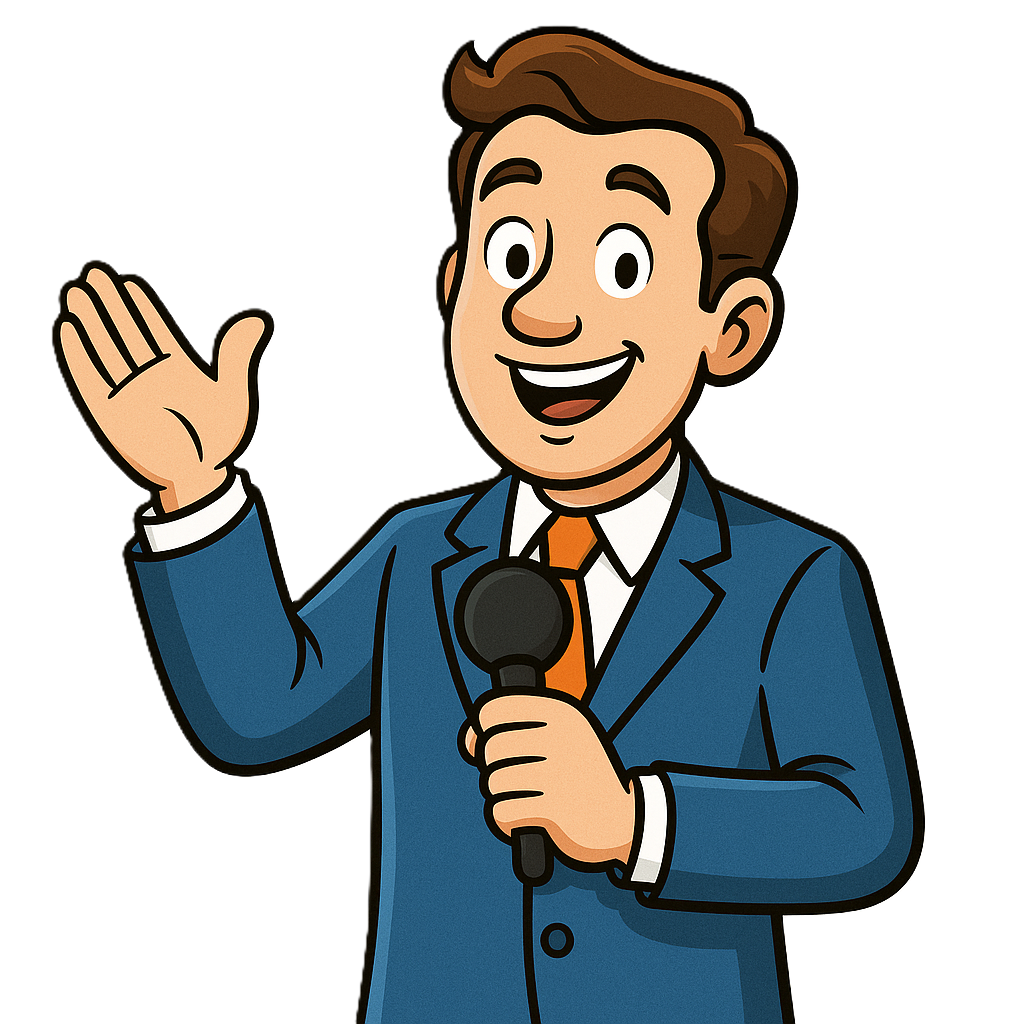
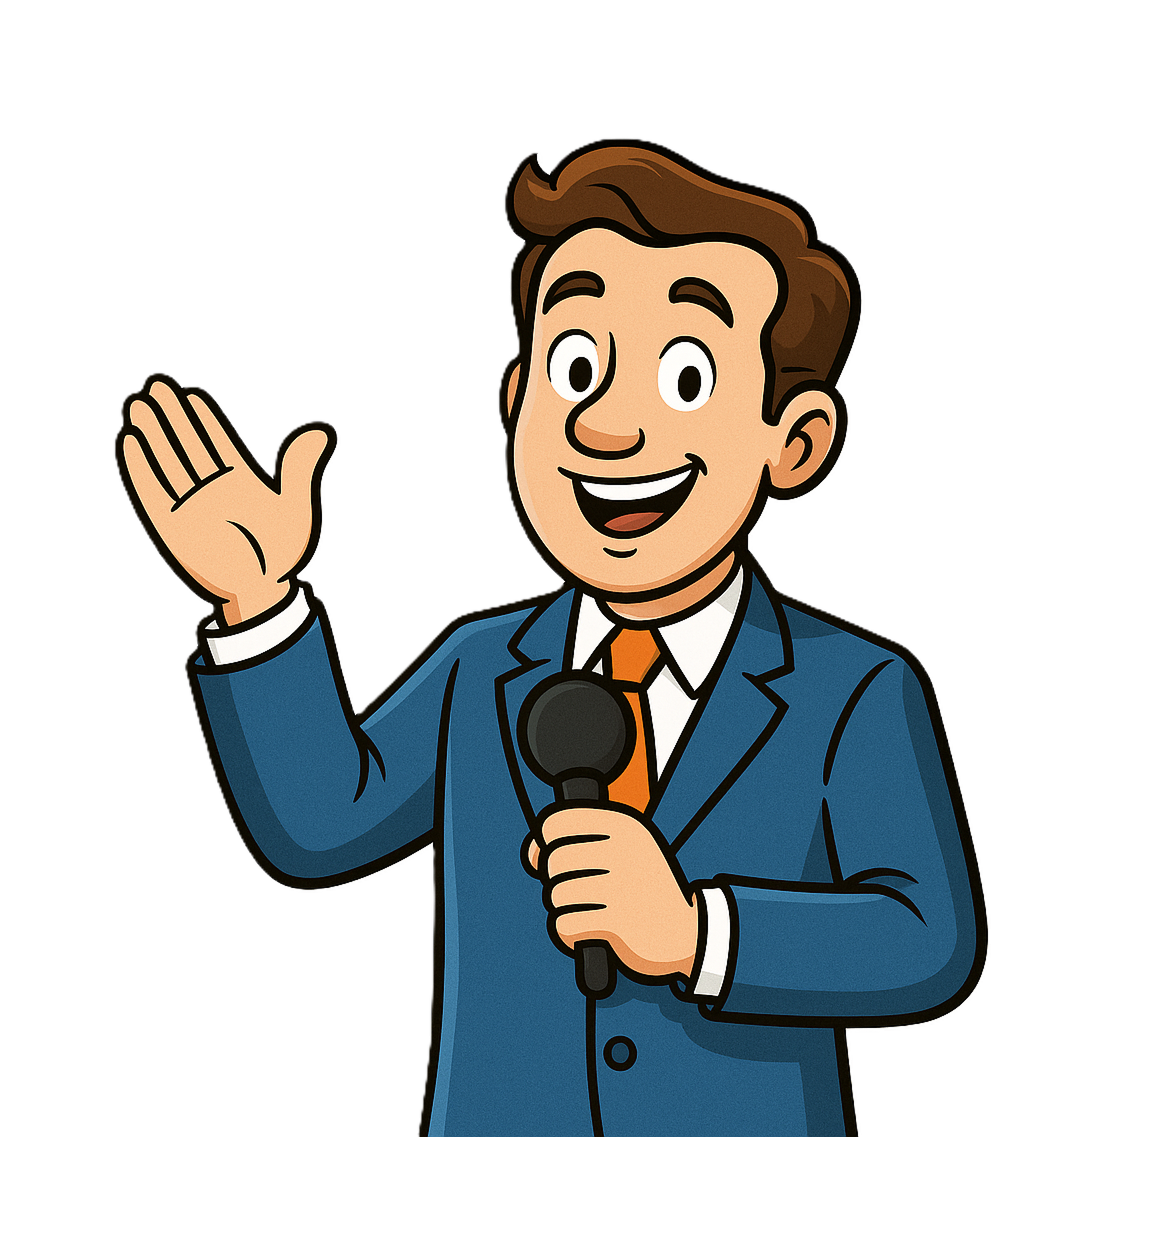
Cambios de Diseño con Ayuda de Eddy, se Modificaron imagenes

diff --git a/styles.css b/styles.css
@@ -17,6 +17,10 @@ body {
   box-sizing: border-box;
 }
 
+.Section-presentador {
+    width: 100%;
+}
+
 /* Presentador y cuadro de diálogo */
 .presenter-section {
   display: flex;
@@ -29,14 +33,15 @@ body {
 }
 
 .presenter-section figure {
-  flex: 0 0 auto;
-  width: 200px;
+  /*flex: 0 auto;*/
+  width: 300px;
   margin: 0;
+  /*display: flex;*/
 }
 
 .presenter-section img {
   width: 100%;
-  height: auto;
+  /*height: auto;*/
   border-radius: 10px;
 }
 
@@ -85,8 +90,9 @@ body {
 /* Estilo para imágenes de puertas */
 #doors {
   display: flex;
-  flex-wrap: wrap;
-  justify-content: center;
+  /*flex-wrap: wrap;*/
+  flex-direction: row;
+  justify-content: space-between;
   gap: 1.5rem;
   margin-top: 1rem;
 }
@@ -97,13 +103,11 @@ body {
   cursor: pointer;
   transition: transform 0.3s ease, box-shadow 0.3s ease;
   border-radius: 8px;
-  box-shadow: 0 2px 4px rgba(0, 0, 0, 0.2);
 }
 
 /* Efecto al pasar el mouse */
 #doors img:hover {
   transform: scale(1.05);
-  box-shadow: 0 4px 12px rgba(0, 0, 0, 0.3);
 }
 
 .reset-btn{

diff --git a/index.html b/index.html
@@ -14,7 +14,7 @@
 </header>
 <main class="contenedor-principal">
     <div class="grid" style="display: flex; justify-content:  space-around;">
-        <section>
+        <section class="Section-presentador">
         <!-- Presentador y cuadro de diálogo -->
         <div class="presenter-section">
           <figure>
